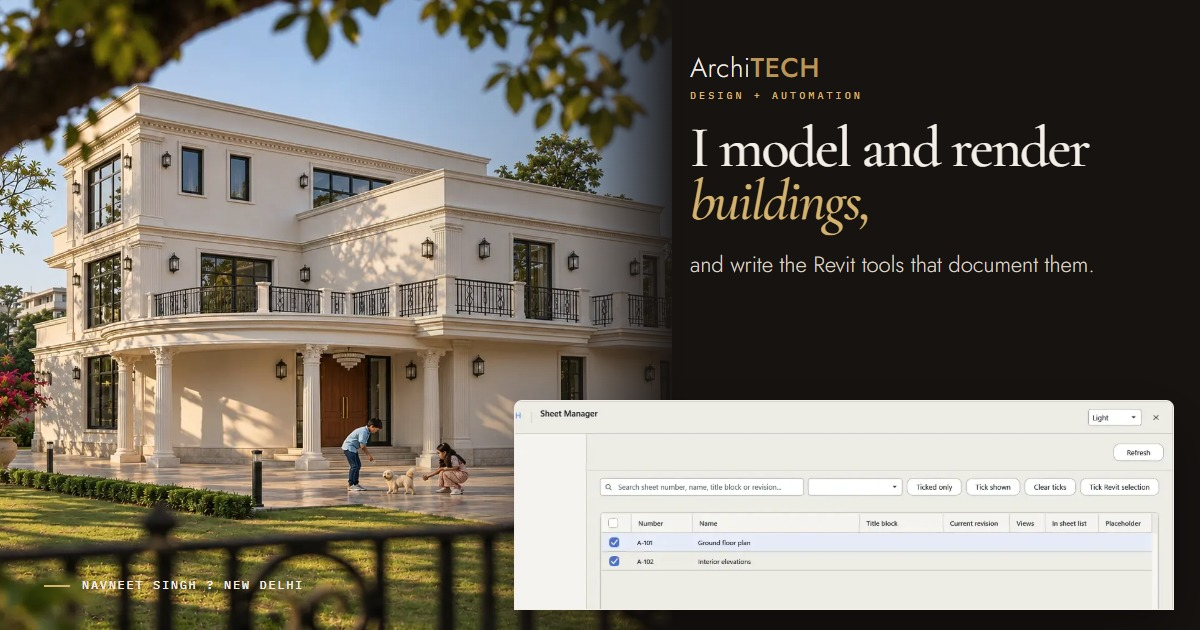
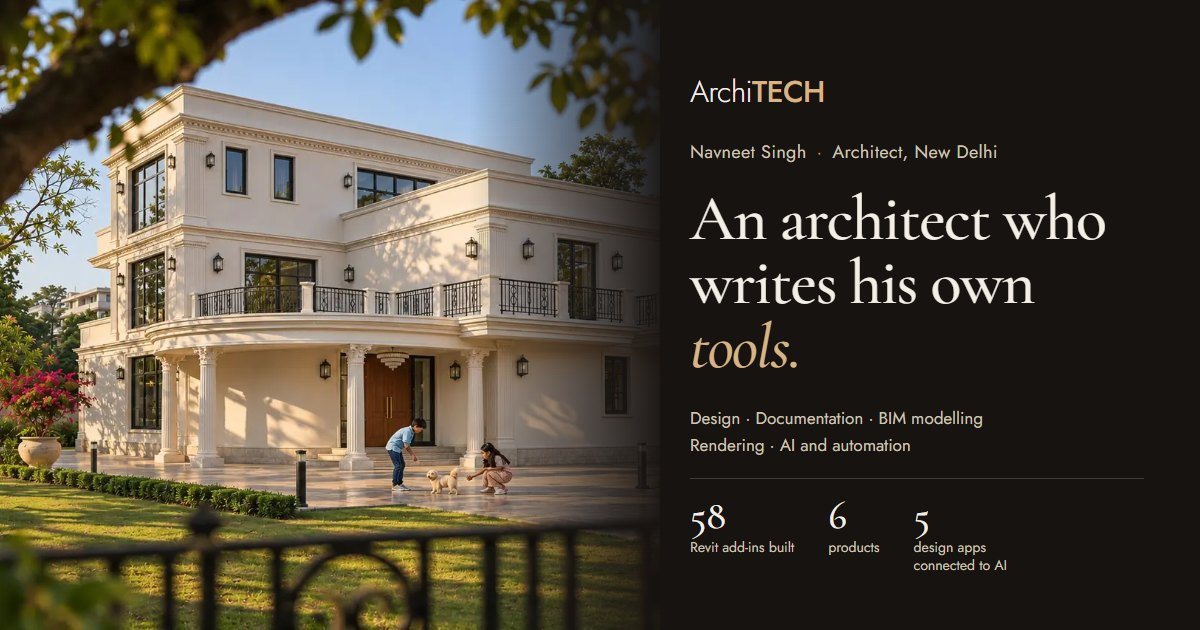
Lead with 'An architect who writes his own tools.'
- New hero: name and title, the hook, one line on the range of work, two
  actions (See my work, Work with me), the five disciplines and three proof
  figures (58 add-ins, 6 products, 5 design apps connected to AI).
- New 'What I bring to a project' section: design, documentation, BIM
  modelling, rendering, AI and automation, each with its own picture.
- About rewritten as an architect; footer asks for a project or a role.
- Design page: five disciplines under What I do, 'Case study', contact
  links 'Write to me' and 'See the tools I have built'.
- New link-preview image with the new hook (the old one carried the old
  line and a broken character).

diff --git a/portal.html b/portal.html
@@ -4,24 +4,24 @@
   <meta charset="utf-8">
   <meta name="viewport" content="width=device-width, initial-scale=1">
   <meta name="theme-color" content="#f3eee6">
-  <title>Navneet Singh — Architectural modelling, rendering and Revit tools | ArchiTECH</title>
-  <meta name="description" content="Portfolio of Navneet Singh: architectural modelling, rendering and presentation, and the BIM tools he has developed for Revit and CAD.">
+  <title>Navneet Singh | Architect: design, documentation, BIM, rendering and AI automation</title>
+  <meta name="description" content="Navneet Singh is an architect in New Delhi: design, documentation, BIM modelling and rendering, plus 58 Revit add-ins and AI tools he has built himself.">
   <link rel="canonical" href="https://architechdesign.in/">
   <meta property="og:type" content="website">
   <meta property="og:site_name" content="ArchiTECH">
   <meta property="og:url" content="https://architechdesign.in/">
-  <meta property="og:title" content="Navneet Singh | ArchiTECH">
-  <meta property="og:description" content="I model and render buildings, and I write the Revit tools that document them.">
+  <meta property="og:title" content="Navneet Singh, architect | ArchiTECH">
+  <meta property="og:description" content="An architect who writes his own tools. From concept and drawings to BIM, renders and the AI automation that speeds them up.">
   <meta property="og:image" content="https://architechdesign.in/img/home-share-1200x630.jpg">
   <meta property="og:image:type" content="image/jpeg">
   <meta property="og:image:width" content="1200">
   <meta property="og:image:height" content="630">
-  <meta property="og:image:alt" content="The Vasant Kunj residence beside a Revit add-in window, with the line: I model and render buildings, and write the Revit tools that document them.">
+  <meta property="og:image:alt" content="The Vasant Kunj residence beside a Revit add-in window, with the line: An architect who writes his own tools.">
   <meta name="twitter:card" content="summary_large_image">
-  <meta name="twitter:title" content="Navneet Singh | ArchiTECH">
-  <meta name="twitter:description" content="I model and render buildings, and I write the Revit tools that document them.">
+  <meta name="twitter:title" content="Navneet Singh, architect | ArchiTECH">
+  <meta name="twitter:description" content="An architect who writes his own tools. From concept and drawings to BIM, renders and the AI automation that speeds them up.">
   <meta name="twitter:image" content="https://architechdesign.in/img/home-share-1200x630.jpg">
-  <meta name="twitter:image:alt" content="The Vasant Kunj residence beside a Revit add-in window, with the line: I model and render buildings, and write the Revit tools that document them.">
+  <meta name="twitter:image:alt" content="The Vasant Kunj residence beside a Revit add-in window, with the line: An architect who writes his own tools.">
   <link rel="icon" href="/favicon.ico" sizes="any">
   <link rel="icon" type="image/png" href="/assets/architech-mark-transparent.png">
   <link rel="preload" as="image" type="image/avif" imagesrcset="/img/home-hero-day-640.avif 640w, /img/home-hero-day-1280.avif 1280w, /img/home-hero-day-1520.avif 1520w" imagesizes="(max-width: 700px) 100vw, 50vw" fetchpriority="high">
@@ -30,7 +30,7 @@
   <link rel="preload" as="style" href="https://fonts.googleapis.com/css2?family=Cormorant+Garamond:wght@500&amp;family=Jost:wght@300;400;500&amp;display=optional" onload="this.onload=null;this.rel='stylesheet'">
   <noscript><link rel="stylesheet" href="https://fonts.googleapis.com/css2?family=Cormorant+Garamond:wght@500&amp;family=Jost:wght@300;400;500&amp;display=optional"></noscript>
   <link rel="stylesheet" href="/chrome.css?v=2">
-  <link rel="stylesheet" href="/portal.css?v=7">
+  <link rel="stylesheet" href="/portal.css?v=8">
   <script>
     // Shared links to sections of the former homepage still open the Design presentation.
     const legacyDesignSections = new Set([
@@ -68,11 +68,26 @@
   <main id="main" tabindex="-1">
     <div class="first-screen">
       <div class="statement">
+        <p class="kicker">Navneet Singh <span>Architect, New Delhi</span></p>
         <h1>
-          <span class="line"><span>I model and render buildings,</span></span>
-          <span class="line"><span>and write the Revit tools that document them.</span></span>
+          <span class="line"><span>An architect who</span></span>
+          <span class="line"><span>writes his own <em>tools.</em></span></span>
         </h1>
-        <p><strong>Navneet Singh</strong> 3D and BIM modelling, rendering, drawings and presentation. Add-in development for Revit.</p>
+        <div class="statement-side">
+          <p class="statement-sub">From concept and drawings to BIM, renders and the AI automation that speeds them up.</p>
+          <div class="statement-cta">
+            <a class="cta cta-solid" href="/design/">See my work</a>
+            <a class="cta cta-line" href="#contact">Work with me</a>
+          </div>
+        </div>
+        <ul class="skills" aria-label="What I do">
+          <li>Design</li><li>Documentation</li><li>BIM modelling</li><li>Rendering</li><li>AI and automation</li>
+        </ul>
+        <dl class="proof" aria-label="What I have built">
+          <div><dt>Revit add-ins built</dt><dd>58</dd></div>
+          <div><dt>products, from ribbon to desktop</dt><dd>6</dd></div>
+          <div><dt>design apps I connected to AI</dt><dd>5</dd></div>
+        </dl>
       </div>
 
       <div id="divisions" class="split" role="group" aria-label="The two portfolios">
@@ -95,15 +110,59 @@
             <img src="/img/home-drawing-1280.webp" srcset="/img/home-drawing-1280.webp 1280w" sizes="(max-width: 700px) 100vw, 50vw" alt="" width="1280" height="1033" decoding="async">
           </picture></span>
           <img class="side-dialog" src="/automation/dialogs/arch-folio/sheet-manager/D104-create-dark.webp" alt="The Sheet Manager window, one of the Revit add-ins" width="1320" height="880" decoding="async">
-          <span class="side-tag">Sheet Manager<small>Revit add-in, its real dialogs shown as built</small></span>
+          <span class="side-tag">Sheet Manager<small>One of my 58 Revit add-ins</small></span>
           <span class="side-copy">
             <span class="side-name">Automation</span>
-            <span class="side-text">Revit add-ins for sheets, parameters and model checks.</span>
+            <span class="side-text">Revit add-ins, a photo-to-3D app and AI connectors I built myself.</span>
             <span class="side-go">See the tools</span>
           </span>
         </a>
       </div>
     </div>
+
+    <section class="caps" aria-labelledby="caps-title">
+      <div class="caps-head">
+        <h2 id="caps-title">What I bring to a project</h2>
+        <p>One person from the first plan to the final image, and the software that makes the repeat work disappear.</p>
+      </div>
+      <ol class="caps-row">
+        <li><a href="/design/">
+          <span class="cap-img"><picture><source type="image/avif" srcset="/img/home-hero-day-640.avif 640w, /img/home-hero-day-1280.avif 1280w" sizes="(max-width: 700px) 92vw, (max-width: 1100px) 46vw, 20vw"><img src="/img/home-hero-day-640.webp" srcset="/img/home-hero-day-640.webp 640w, /img/home-hero-day-1280.webp 1280w" sizes="(max-width: 700px) 92vw, (max-width: 1100px) 46vw, 20vw" alt="Visualisation of the Vasant Kunj residence in daylight" width="1520" height="1013" loading="lazy" decoding="async"></picture></span>
+          <span class="cap-no">01</span>
+          <strong>Design</strong>
+          <span class="cap-text">Concept, space planning and design development, worked through to drawings a client can sign off.</span>
+          <span class="cap-go">See the case study</span>
+        </a></li>
+        <li><a href="/design/#plans">
+          <span class="cap-img"><picture><source type="image/avif" srcset="/img/home-drawing-1280.avif 1280w" sizes="(max-width: 700px) 92vw, (max-width: 1100px) 46vw, 20vw"><img src="/img/home-drawing-1280.webp" srcset="/img/home-drawing-1280.webp 1280w" sizes="(max-width: 700px) 92vw, (max-width: 1100px) 46vw, 20vw" alt="Ground floor plan drawing of the residence" width="1280" height="1033" loading="lazy" decoding="async"></picture></span>
+          <span class="cap-no">02</span>
+          <strong>Documentation</strong>
+          <span class="cap-text">Plans and drawing sets, sheeted, numbered and published with tools I wrote for Revit.</span>
+          <span class="cap-go">See the plans</span>
+        </a></li>
+        <li><a href="/design/#dwelling">
+          <span class="cap-img"><picture><source type="image/avif" srcset="/img/home-plan-render-640.avif 640w, /img/home-plan-render-859.avif 859w" sizes="(max-width: 700px) 92vw, (max-width: 1100px) 46vw, 20vw"><img src="/img/home-plan-render-640.webp" srcset="/img/home-plan-render-640.webp 640w, /img/home-plan-render-859.webp 859w" sizes="(max-width: 700px) 92vw, (max-width: 1100px) 46vw, 20vw" alt="Rendered ground floor plan with furniture and flooring" width="859" height="700" loading="lazy" decoding="async"></picture></span>
+          <span class="cap-no">03</span>
+          <strong>BIM modelling</strong>
+          <span class="cap-text">Revit, SketchUp and Rhino models, built level by level from the drawings.</span>
+          <span class="cap-go">See the model</span>
+        </a></li>
+        <li><a href="/design/#light">
+          <span class="cap-img"><picture><source type="image/avif" srcset="/img/home-front-dusk-640.avif 640w, /img/home-front-dusk-1280.avif 1280w" sizes="(max-width: 700px) 92vw, (max-width: 1100px) 46vw, 20vw"><img src="/img/home-front-dusk-640.webp" srcset="/img/home-front-dusk-640.webp 640w, /img/home-front-dusk-1280.webp 1280w" sizes="(max-width: 700px) 92vw, (max-width: 1100px) 46vw, 20vw" alt="Visualisation of the front elevation at dusk" width="1496" height="997" loading="lazy" decoding="async"></picture></span>
+          <span class="cap-no">04</span>
+          <strong>Rendering</strong>
+          <span class="cap-text">Day and dusk exteriors, rendered plans and lifestyle views for presentation.</span>
+          <span class="cap-go">See the renders</span>
+        </a></li>
+        <li><a href="/automation/">
+          <span class="cap-img"><img src="/automation/dialogs/arch-folio/sheet-manager/D104-create-dark-720.webp" alt="The Sheet Manager window, one of my Revit add-ins" width="720" height="480" loading="lazy" decoding="async"></span>
+          <span class="cap-no">05</span>
+          <strong>AI and automation</strong>
+          <span class="cap-text">58 Revit add-ins, a photo-to-3D app and an AI connector for Revit, Rhino, SketchUp, AutoCAD and Blender.</span>
+          <span class="cap-go">See the tools</span>
+        </a></li>
+      </ol>
+    </section>
 
     <section class="stages" aria-labelledby="stages-title">
       <div class="stages-head">
@@ -154,27 +213,31 @@
       </div>
       <div class="tools-grid">
         <div class="tools-head">
-          <h2 id="tools-title">The same work, without the repeats</h2>
+          <h2 id="tools-title">Then I automate the repeats</h2>
         </div>
         <div class="tools-copy">
-          <p>Numbering sheets, filling parameters and checking a model are the same clicks on every project. I write Revit add-ins that do them, and each one is shown here through its real dialogs.</p>
+          <p>Numbering sheets, filling parameters, checking a model: the same clicks on every project. So I wrote Revit add-ins that do them, 58 so far in three suites, each shown here through its real windows.</p>
           <ul class="tool-index">
             <li><a href="/automation/demos/room-to-view/"><b>Arch Folio</b><strong>Room to View</strong><span>Plans, elevations and sheets for every ticked room</span></a></li>
             <li><a href="/automation/demos/parameter-manager/"><b>Arch Forge</b><strong>Parameter Manager</strong><span>Define and bind project parameters</span></a></li>
             <li><a href="/automation/demos/warnings-inspector/"><b>Arch Sentinel</b><strong>Warnings Inspector</strong><span>Find and isolate the warnings that matter</span></a></li>
           </ul>
-          <a class="text-link" href="/automation/demos/">See every dialog</a>
+          <a class="text-link" href="/automation/plugins/">See all 58 tools</a>
         </div>
       </div>
     </section>
 
     <section class="about" id="about" aria-labelledby="about-title">
-      <!-- TODO(Navneet): add a portrait (new file, e.g. img/home-navneet-640.avif), years in practice,
-           where you have worked and your BIM background. Only facts already published are used below. -->
-      <h2 id="about-title">Navneet Singh</h2>
+      <!-- TODO(Navneet): add a portrait (e.g. img/home-navneet-640.avif), years in practice and where you have worked. -->
+      <h2 id="about-title">Navneet Singh, <em>architect</em></h2>
       <div class="about-copy">
-        <p>I work from New Delhi: 3D and BIM modelling, rendering, drawings, presentation and Revit add-ins.</p>
-        <p>The Vasant Kunj model, images and tool windows shown here are my work.</p>
+        <p>I am an architect in New Delhi. I take a project from concept and drawings through BIM modelling, documentation and rendering to the final presentation.</p>
+        <p>When a task repeats, I write the tool for it: 58 Revit add-ins so far, a desktop app that turns a photo into a Revit family, an assistant for the open model, and an AI connector for Revit, Rhino, SketchUp, AutoCAD and Blender.</p>
+        <p>The Vasant Kunj model and images, and every tool on this site, are my own work.</p>
+        <div class="statement-cta">
+          <a class="cta cta-solid" href="#contact">Work with me</a>
+          <a class="cta cta-line" href="https://www.linkedin.com/in/architech-india/" rel="noreferrer">LinkedIn</a>
+        </div>
       </div>
     </section>
   </main>
@@ -182,7 +245,7 @@
   <footer class="ax-footer" id="contact">
     <div class="ax-foot-grid">
       <div class="ax-foot-lead">
-        <p class="ax-foot-line">Have a project or a workflow to talk through?</p>
+        <p class="ax-foot-line">Have a project or a role in mind? Let’s talk.</p>
         <!-- TODO(Navneet): confirm the reply-time wording. -->
         <p class="ax-foot-reply">I reply within one working day.</p>
       </div>

diff --git a/portal.css b/portal.css
@@ -96,14 +96,10 @@ main:focus { outline: none; }
 
 /* Design: the house at three stages, drawing, material, light. */
 .stages, .about { padding: var(--s-6) var(--gut); }
-.stages {
-  --hero-feather: max(180px, 32vh);
-  position: relative;
-  isolation: isolate;
-  padding-top: calc(var(--hero-feather) + var(--s-4));
-  padding-bottom: var(--s-7);
-}
-.stages::before {
+.caps, .stages { position: relative; isolation: isolate; }
+.caps { --hero-feather: max(180px, 32vh); padding-top: calc(var(--hero-feather) + var(--s-4)); }
+.stages { padding-top: var(--s-5); padding-bottom: var(--s-7); }
+.caps::before {
   content: '';
   position: absolute;
   z-index: -1;
@@ -292,3 +288,70 @@ body > .ax-footer { padding-top: var(--s-5); }
   .cross-dialog { transform: none; will-change: auto; }
   .cross-render img { scale: 1; }
 }
+
+/* Hero: who, what, proof, two actions. */
+.statement { row-gap: var(--s-3); }
+.statement .kicker { grid-column: 1 / -1; display: flex; align-items: center; gap: 12px; color: var(--ink); font: 500 1rem/1.3 var(--sans); }
+.statement .kicker span { padding-left: 12px; border-left: .75px solid var(--stone); color: var(--ink-2); font-weight: 400; }
+.statement h1 { grid-column: 1 / span 8; font-size: clamp(2.6rem, 6vw, 6.4rem); line-height: .95; }
+.statement h1 em { color: var(--brass-ink); }
+.statement-side { grid-column: 9 / -1; align-self: end; display: grid; gap: var(--s-3); padding-bottom: .4em; }
+.statement .statement-sub { grid-column: auto; padding: 0; color: var(--ink-2); font-size: clamp(1rem, 1.25vw, 1.15rem); line-height: 1.5; }
+.statement-cta { display: flex; flex-wrap: wrap; gap: 12px; }
+.cta { display: inline-flex; align-items: center; justify-content: center; min-height: 46px; padding: 0 22px; border-radius: 2px; font: 500 .95rem/1 var(--sans); text-decoration: none; transition: background var(--t-ui), color var(--t-ui), border-color var(--t-ui); }
+.cta-solid { background: var(--ink); color: var(--paper); border: .75px solid var(--ink); }
+.cta-solid:hover, .cta-solid:focus-visible { background: var(--brass-ink); border-color: var(--brass-ink); }
+.cta-line { border: .75px solid var(--ink); color: var(--ink); }
+.cta-line:hover, .cta-line:focus-visible { background: var(--ink); color: var(--paper); }
+.skills { grid-column: 1 / span 8; display: flex; flex-wrap: wrap; gap: 0; margin: 0; padding: 0; list-style: none; border-top: .75px solid var(--stone); }
+.skills li { padding: 12px 18px 0 0; margin-right: 18px; color: var(--ink); font: 400 clamp(.95rem, 1.1vw, 1.05rem)/1.3 var(--sans); position: relative; }
+.skills li:not(:last-child)::after { content: ''; position: absolute; right: -2px; top: calc(12px + .55em); width: 5px; height: 5px; border-radius: 50%; background: var(--brass); }
+.proof { grid-column: 9 / -1; display: grid; grid-template-columns: repeat(3, minmax(0, 1fr)); gap: 12px; margin: 0; border-top: .75px solid var(--stone); }
+.proof div { display: flex; flex-direction: column-reverse; justify-content: flex-end; gap: 4px; padding-top: 10px; }
+.proof dd { margin: 0; font: 500 clamp(2rem, 3vw, 3rem)/.9 var(--serif); letter-spacing: -.03em; color: var(--ink); font-variant-numeric: lining-nums; }
+.proof dt { color: var(--ink-2); font-size: .82rem; line-height: 1.3; }
+
+/* What I bring: five disciplines, each with its own evidence. */
+.caps { padding-inline: var(--gut); padding-bottom: var(--s-5); }
+.caps > * { max-width: 1520px; margin-inline: auto; }
+.caps-head { display: grid; grid-template-columns: repeat(12, minmax(0, 1fr)); gap: var(--s-2) var(--s-3); align-items: end; margin-bottom: var(--s-4); }
+.caps-head h2 { grid-column: 1 / span 7; font: 500 clamp(2.2rem, 4.6vw, 4.6rem)/.95 var(--serif); letter-spacing: -.03em; }
+.caps-head p { grid-column: 9 / -1; color: var(--ink-2); font-size: clamp(1rem, 1.2vw, 1.1rem); }
+.caps-row { display: grid; grid-template-columns: repeat(5, minmax(0, 1fr)); gap: var(--s-3); margin: 0; padding: 0; list-style: none; }
+.caps-row a { display: grid; grid-template-rows: auto auto auto 1fr auto; gap: 6px; height: 100%; color: var(--ink); text-decoration: none; }
+.cap-img { display: block; aspect-ratio: 4 / 3; overflow: hidden; margin-bottom: 10px; background: var(--night); }
+.cap-img img { width: 100%; height: 100%; object-fit: cover; transition: scale 1.1s var(--ease); }
+.caps-row li:nth-child(2) .cap-img { background: var(--paper-2); }
+.caps-row li:nth-child(2) .cap-img img { object-fit: contain; padding: 6%; mix-blend-mode: multiply; }
+.caps-row li:nth-child(5) .cap-img img { object-position: left top; }
+.caps-row a:hover .cap-img img, .caps-row a:focus-visible .cap-img img { scale: 1.05; }
+.cap-no { color: var(--brass-ink); font: 400 .85rem/1 var(--sans); }
+.caps-row strong { font: 500 clamp(1.5rem, 2vw, 2rem)/1.05 var(--serif); letter-spacing: -.02em; }
+.cap-text { color: var(--ink-2); font-size: .95rem; line-height: 1.45; }
+.cap-go { justify-self: start; margin-top: 8px; padding-bottom: 2px; border-bottom: .75px solid var(--stone); font-size: .92rem; transition: border-color var(--t-ui); }
+.caps-row a:hover .cap-go, .caps-row a:focus-visible .cap-go { border-color: var(--ink); }
+
+.about h2 em { color: var(--brass); }
+.about .statement-cta { margin-top: var(--s-1); }
+.about .cta-solid { background: var(--paper); color: var(--night); border-color: var(--paper); }
+.about .cta-solid:hover, .about .cta-solid:focus-visible { background: var(--brass); border-color: var(--brass); }
+.about .cta-line { border-color: var(--on-dark-2); color: var(--on-dark); }
+.about .cta-line:hover, .about .cta-line:focus-visible { background: var(--on-dark); color: var(--night); }
+
+@media (max-width: 1100px) {
+  .caps-row { grid-template-columns: repeat(2, minmax(0, 1fr)); }
+  .caps-row li:last-child { grid-column: 1 / -1; }
+  .caps-row li:last-child .cap-img { aspect-ratio: 16 / 7; }
+}
+@media (max-width: 860px) {
+  .statement h1, .statement-side, .skills, .proof, .caps-head h2, .caps-head p { grid-column: 1 / -1; }
+}
+@media (max-width: 560px) {
+  .caps-row { grid-template-columns: 1fr; }
+  .caps-row li:last-child .cap-img { aspect-ratio: 4 / 3; }
+  .proof dt { font-size: .76rem; }
+}
+@media (prefers-reduced-motion: no-preference) {
+  .statement .kicker, .statement-side, .skills, .proof { animation: settle var(--t-scene) var(--ease) .3s both; }
+}
+@media (prefers-reduced-motion: reduce) { .cap-img img { transition: none; } }

diff --git a/index.html b/index.html
@@ -279,7 +279,7 @@
 <section class="project-index" id="projects" aria-labelledby="projects-title">
   <div class="studio-head">
     <p class="kicker">Projects</p>
-    <h2 class="split" id="projects-title">Selected <em>work.</em></h2>
+    <h2 class="split" id="projects-title">Case <em>study.</em></h2>
   </div>
   <ol class="project-list pf-stagger">
     <li><a href="#top" aria-current="page"><span>01</span><strong>Residence in Vasant Kunj</strong><small>Design proposal · New Delhi · Modelling, rendering, presentation</small><i aria-hidden="true">↑</i></a></li>
@@ -290,13 +290,14 @@
 <section class="studio" id="studio">
   <div class="studio-head">
     <p class="kicker">What I do</p>
-    <h2 class="split">From the first drawing <em>to the final image.</em></h2>
+    <h2 class="split">From the first sketch <em>to the final image.</em></h2>
   </div>
   <ul class="services" id="services">
-    <li data-img="/plan-render-0.jpg"><span>01</span>3D and BIM modelling<i>→</i></li>
-    <li data-img="/img/front-day.jpg"><span>02</span>Exterior and interior rendering<i>→</i></li>
-    <li data-img="/drawing-ground-lite.jpg"><span>03</span>Drawings and rendered plans<i>→</i></li>
-    <li data-img="/img/ext-after-rain.jpg"><span>04</span>Presentation and storytelling<i>→</i></li>
+    <li data-img="/img/front-day.jpg"><span>01</span>Design and space planning<i>→</i></li>
+    <li data-img="/drawing-ground-lite.jpg"><span>02</span>Drawings and documentation<i>→</i></li>
+    <li data-img="/plan-render-0.jpg"><span>03</span>3D and BIM modelling<i>→</i></li>
+    <li data-img="/img/ext-after-rain.jpg"><span>04</span>Rendering and presentation<i>→</i></li>
+    <li data-img="/automation/dialogs/arch-folio/sheet-manager/D104-create-dark-720.webp"><span>05</span>AI and automation<i>→</i></li>
   </ul>
   <div class="service-float" aria-hidden="true"><img decoding="async" alt=""></div>
 </section>
@@ -306,10 +307,10 @@
   <div class="contact-media rv"><img decoding="async" src="/img/front-dusk.jpg" alt="Visualisation of the front elevation at dusk, a family coming home with their dog" loading="lazy"></div>
   <div class="contact-copy">
     <p class="kicker">Connect</p>
-    <h2 class="split">Talk about a project, <em>or just say hello.</em></h2>
+    <h2 class="split">Have a project or a role in mind? <em>Let’s talk.</em></h2>
     <a class="contact-mail magnet" href="mailto:navneet@architechdesign.in">navneet@architechdesign.in</a>
     <p class="contact-tel"><a href="tel:+917838040375">+91 78380 40375</a><a href="tel:+918920821258">+91 89208 21258</a></p>
-    <p class="contact-more"><a href="https://www.linkedin.com/in/architech-india/" rel="noreferrer">LinkedIn ↗</a><a href="/automation/connect/">Share a suggestion ↗</a><a href="/automation/">See the BIM tools I build ↗</a></p>
+    <p class="contact-more"><a href="https://www.linkedin.com/in/architech-india/" rel="noreferrer">LinkedIn ↗</a><a href="/automation/connect/">Write to me ↗</a><a href="/automation/">See the tools I have built ↗</a></p>
   </div>
 </section>
 </main>
